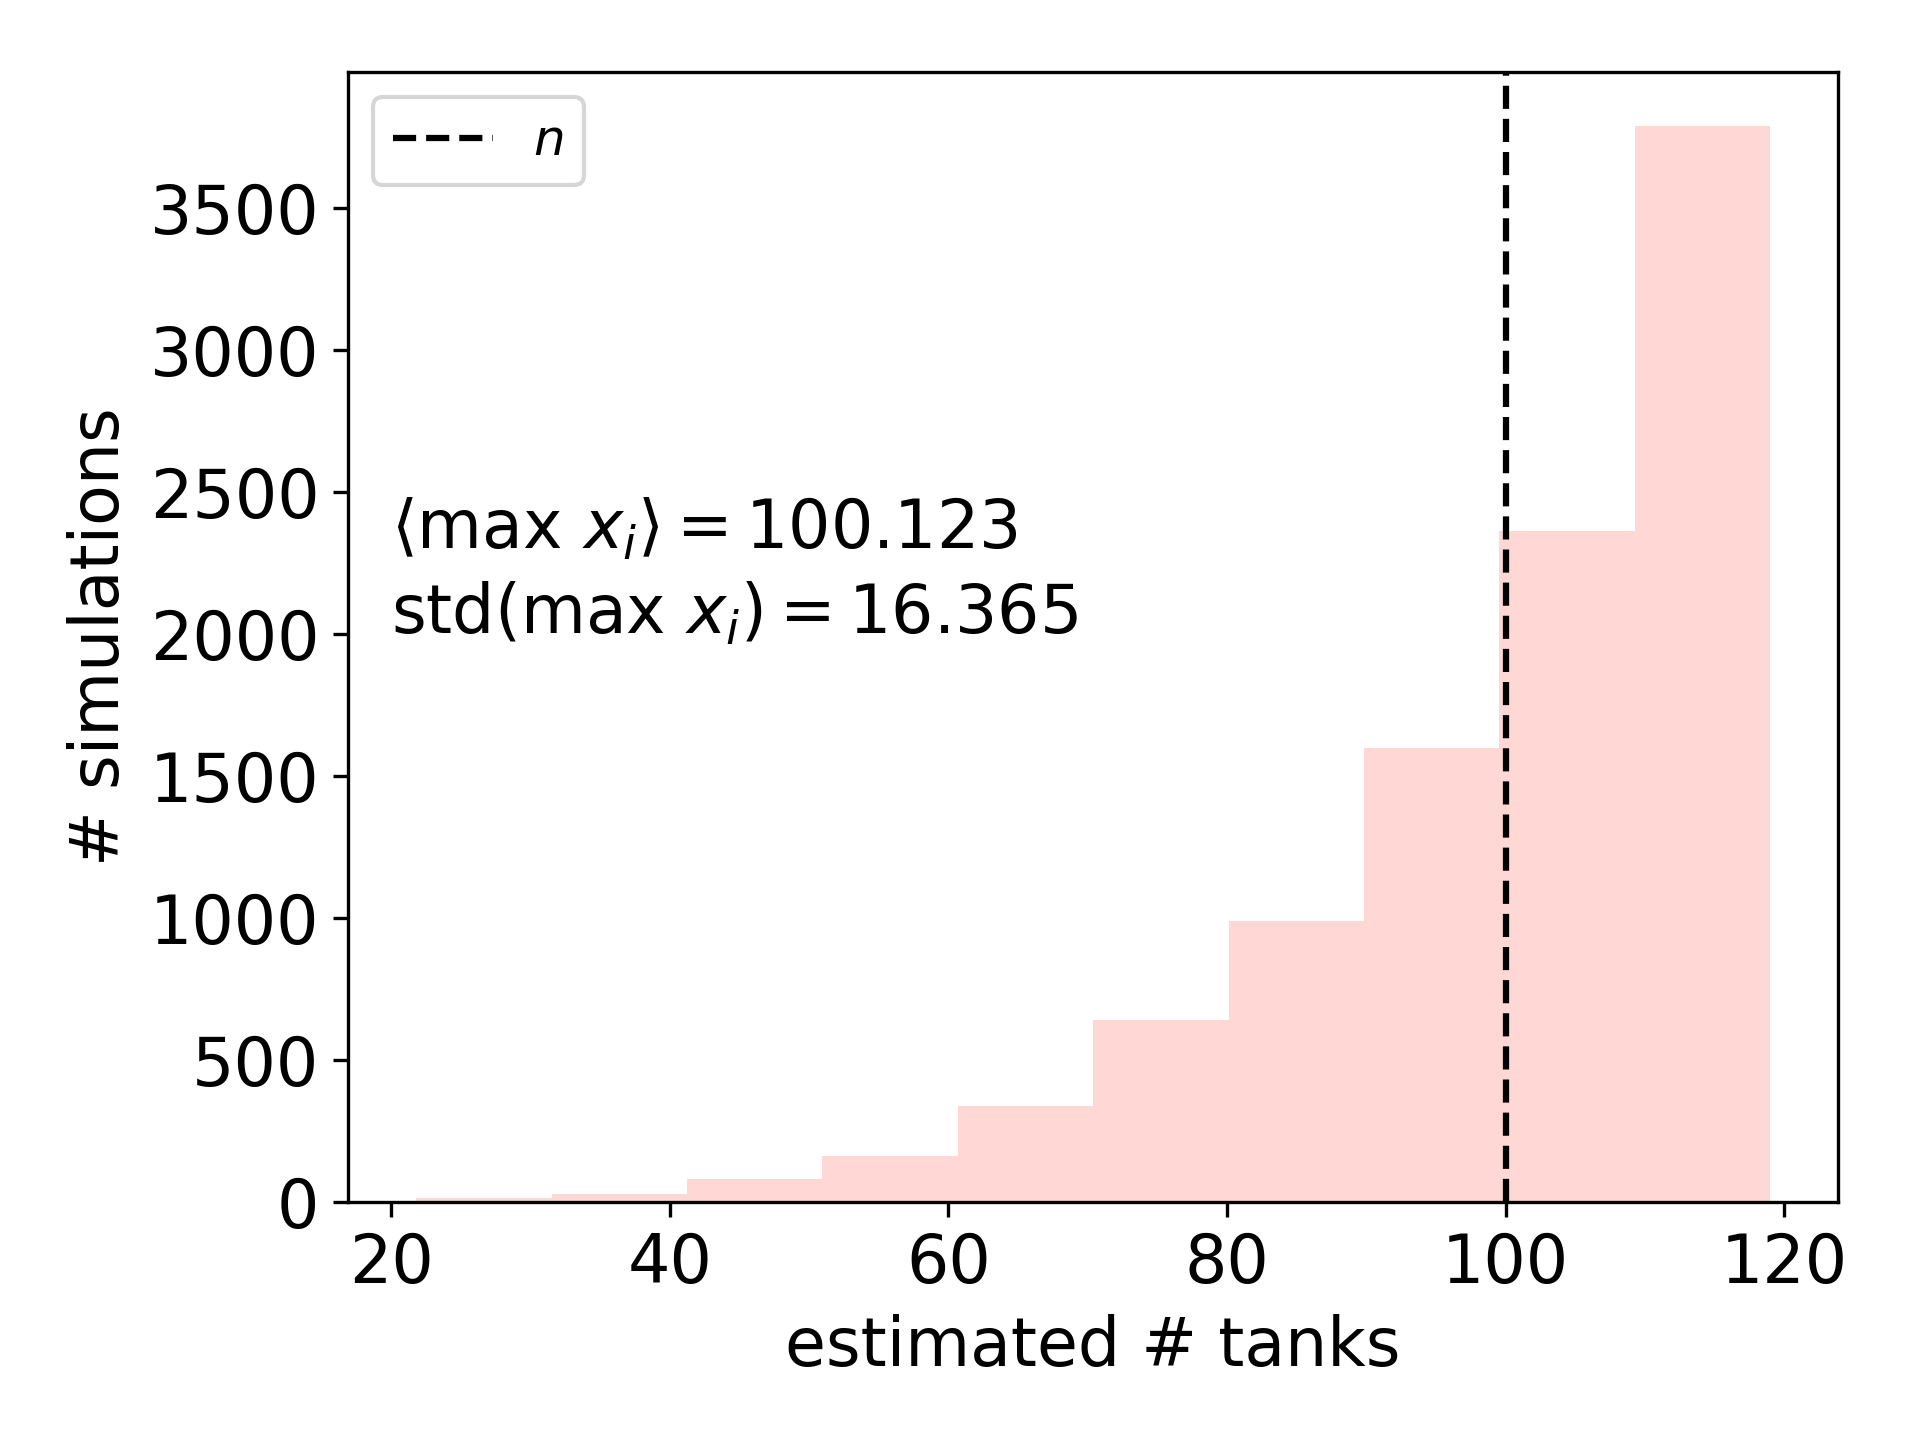
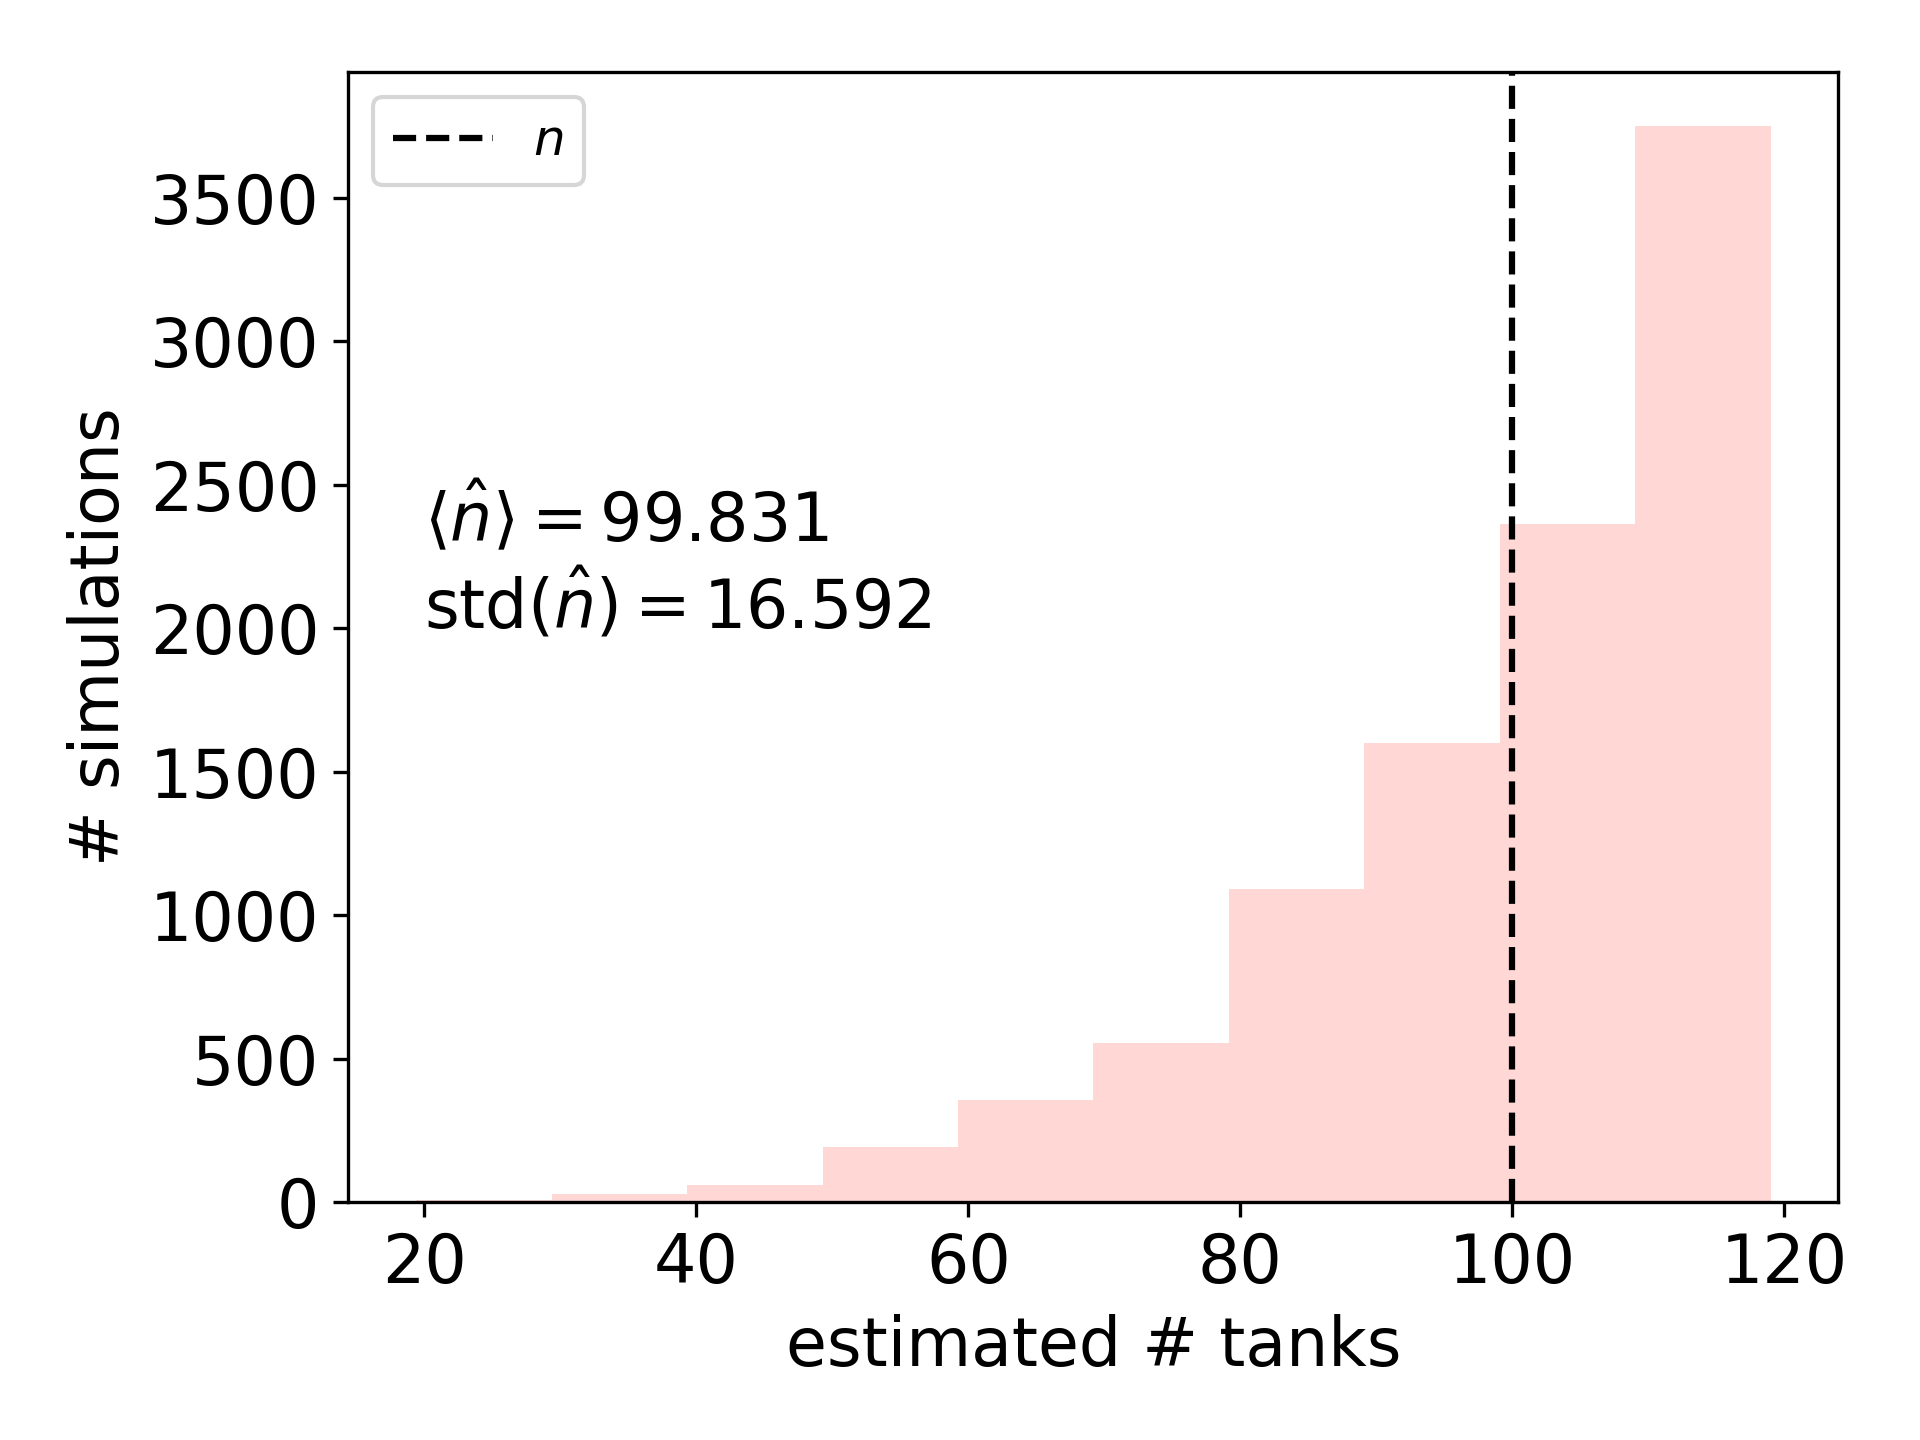
small fix

diff --git a/_posts/2019-11-15-german-tank-problem.md b/_posts/2019-11-15-german-tank-problem.md
@@ -21,11 +21,11 @@ The Allies captured a (assumed) random sample of $k$ tanks from the German force
 
 The number of tanks is of course greater than or equal to the maximum serial number observed: $n \geq \max x_i$. Given the sample above, estimating that the Germans have fewer than 156 tanks would be outrageous. However, estimating that the Germans have 156 tanks seems too conservative; this estimate assumes that we happened to capture the most recently manufactured tank. Intuitively, we should estimate the total number of tanks to be 156 *plus some number* to reflect the small likelihood that we captured the very last tank to come out of the factory (as opposed to not capturing it). How large should this number be?
 
-Let's delve into the math to answer this question, but feel free to skip to `# the unbiased estimator` if you want to know right away.
+Let's delve into the math to answer this question, but feel free to skip to `# an unbiased estimator` if you want to know right away.
 
 # the data generating process (dgp)
 
-We are collecting a random sample from a population (the tanks) and making an observation about the members of the sample (the serial numbers). Think of tank capturing as a stochastic process governed by an underlying data generating process (dgp). The data here are the set of serial numbers $$\{x_1,x_2,...,x_k\}$$.
+We are collecting a random sample from a population (the tanks) and making an observation about the members of the sample (the serial numbers = the data). Think of tank capturing as a stochastic process governed by an underlying data generating process (dgp). The data here are the set of serial numbers $$\{x_1,x_2,...,x_k\}$$.
 
 Our stochastic model for tank capturing-- the dgp-- is a uniform random selection without replacement from the set of integers $$\{1,2,...,n\}$$. Because all viable outcomes (sets of observed serial numbers) are equally probable, the probability of any particular viable outcome, given we know $n$, is:
 
@@ -35,7 +35,7 @@ A viable outcome is one where $$x_i \in \{1, 2, ..., n\}$$ for all $$i\in \{1,2,
 
 # simulating the German tank problem in Julia
 
-We now simulate the dgp in the Julia programming language. For elegance, let's first define a data structure for a tank.
+We can simulate the dgp in the Julia programming language. For elegance, let's first define a data structure for a tank.
 
 ```julia
 struct Tank
@@ -58,11 +58,11 @@ end
 captured_tanks = capture_tanks(5, 300) # produces an array of tanks shown above
 ```
 
-We'll use this function to simulate tank capture and assess the biasedness of different estimators for the number of tanks.
+We'll use this function to simulate tank capture and assess two different estimators for the number of tanks.
 
 # what is an estimator?
 
-In general, an *estimator* maps an outcome of a random experiment to an estimate of a parameter that characterizes the dgp. In the German tank problem, an outcome is the set of serial numbers on the tanks, $$\{x_1, x_2, ..., x_k\}$$, and we aim to estimate the total number of tanks, $n$, which fully characterizes the dgp (in addition to $k$). One estimator of $n$ for the German tank problem is the maximum observed serial number $m\equiv \max x_i$. 
+In general, an *estimator* maps an outcome of a random experiment to an estimate of a parameter that characterizes the dgp. In the German tank problem, an outcome is a set of serial numbers on the captured tanks, $$\{x_1, x_2, ..., x_k\}$$, and we aim to, from this, estimate the total number of tanks, $n$, which fully characterizes the dgp (in addition to $k$). One estimator of $n$ for the German tank problem is the maximum observed serial number $m\equiv \max x_i$. 
 
 We aim to derive an *unbiased* estimator, meaning that, on average, the estimator recovers the true value of the parameter in the dgp. The average here is over the ensemble of possible outcomes generated by the dgp. 
 
@@ -149,7 +149,7 @@ $$\hat{n} = m + \left(\frac{m}{k} - 1\right)$$
 
 Indeed, the estimate of the total number of tanks is the maximum serial number observed plus some number to reflect how unlikely it is to select the most recently manufactured tank (as opposed to missing it). Intuitively, this number gets larger as $m$ gets larger and as $k$ gets smaller. 
 
-This estimator $\hat{n}$ has a very intuitive interpretation. Imagine placing all of the tanks in a line, from 1 to $n$. Then imagine if the tanks we captured were evenly spaced, i.e. had equal gaps of unobserved tanks between them (including the end). The number that we add to $m$ to arrive at the estimate, $m/k-1$, is the gap between the tanks that would be present if the samples were evenly spaced!
+This estimator $\hat{n}$ has a very intuitive interpretation. Imagine placing all of the tanks in a line, from 1 to $n$. Then imagine if the tanks we captured were evenly spaced, i.e. had equal gaps of unobserved tanks between them (including the end). The number that we add to $m$ to arrive at the estimate, $m/k-1$, is the gap between the tanks that would be present if the samples were evenly spaced! I have not proven it yet, but I suspect that $m/k-1$ is the expected gap between unobserved tanks. So we look at the max serial number and add the expected gap between unobserved tanks to arrive at our estimate of $n$.
 
 {:.centerr}
 <figure>
